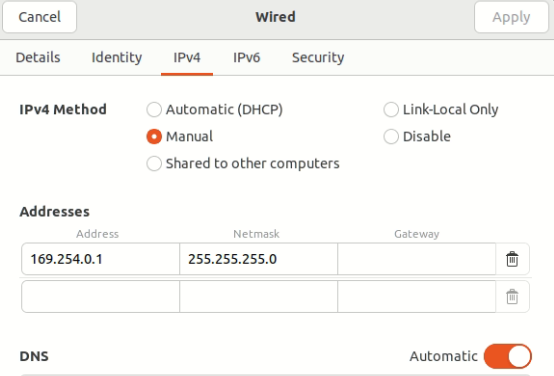
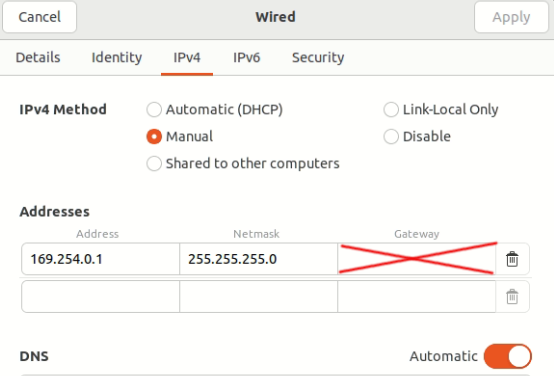
install: adding a X for the default gatewaty image

Changed region(s): [[0.6137, 0.6436, 0.8899, 0.7314]]

diff --git a/docs/Ubuntu Installation.md b/docs/Ubuntu Installation.md
@@ -68,10 +68,7 @@ If the computer is not connected to the internet, it will not be able to get rec
 6. On the IPV4 tag configure the IP and the subnet for each interface.
       ![install 11 - set the ip and subnet.png](/assets/images/installation/install%2011%20-%20set%20the%20ip%20and%20subnet.png)
 
-7. Do not configure a default gateway for these cameras. The camera should be in a closed loop/closed network.
-{: .warning }
-
-8. The network configure can vary depending on the site constrains. Usually we recommend the following convention:
+7. The network configure can vary depending on the site constrains. Usually we recommend the following convention:
    The ip of the interface should be 169.254.X.1 where X is a running interface ID. The subnet should be 255.255.255.0
 
 Do not configure a default gateway for these cameras. The camera should be in a closed loop/closed network.
@@ -82,7 +79,7 @@ In most cases the interface that is connected to the internet (external network)
 If you change the network interface that is pointing outside it may disable your internet connection.
 {: .warning }
 
-9. Once completed, to apply the changes disable and enable the interface.
+8. Once completed, to apply the changes disable and enable the interface.
 
 ## Set the license key and provide the machine signature
 1. Open Mocap Unleashed app from the desktop icon "Start AR51..." .
